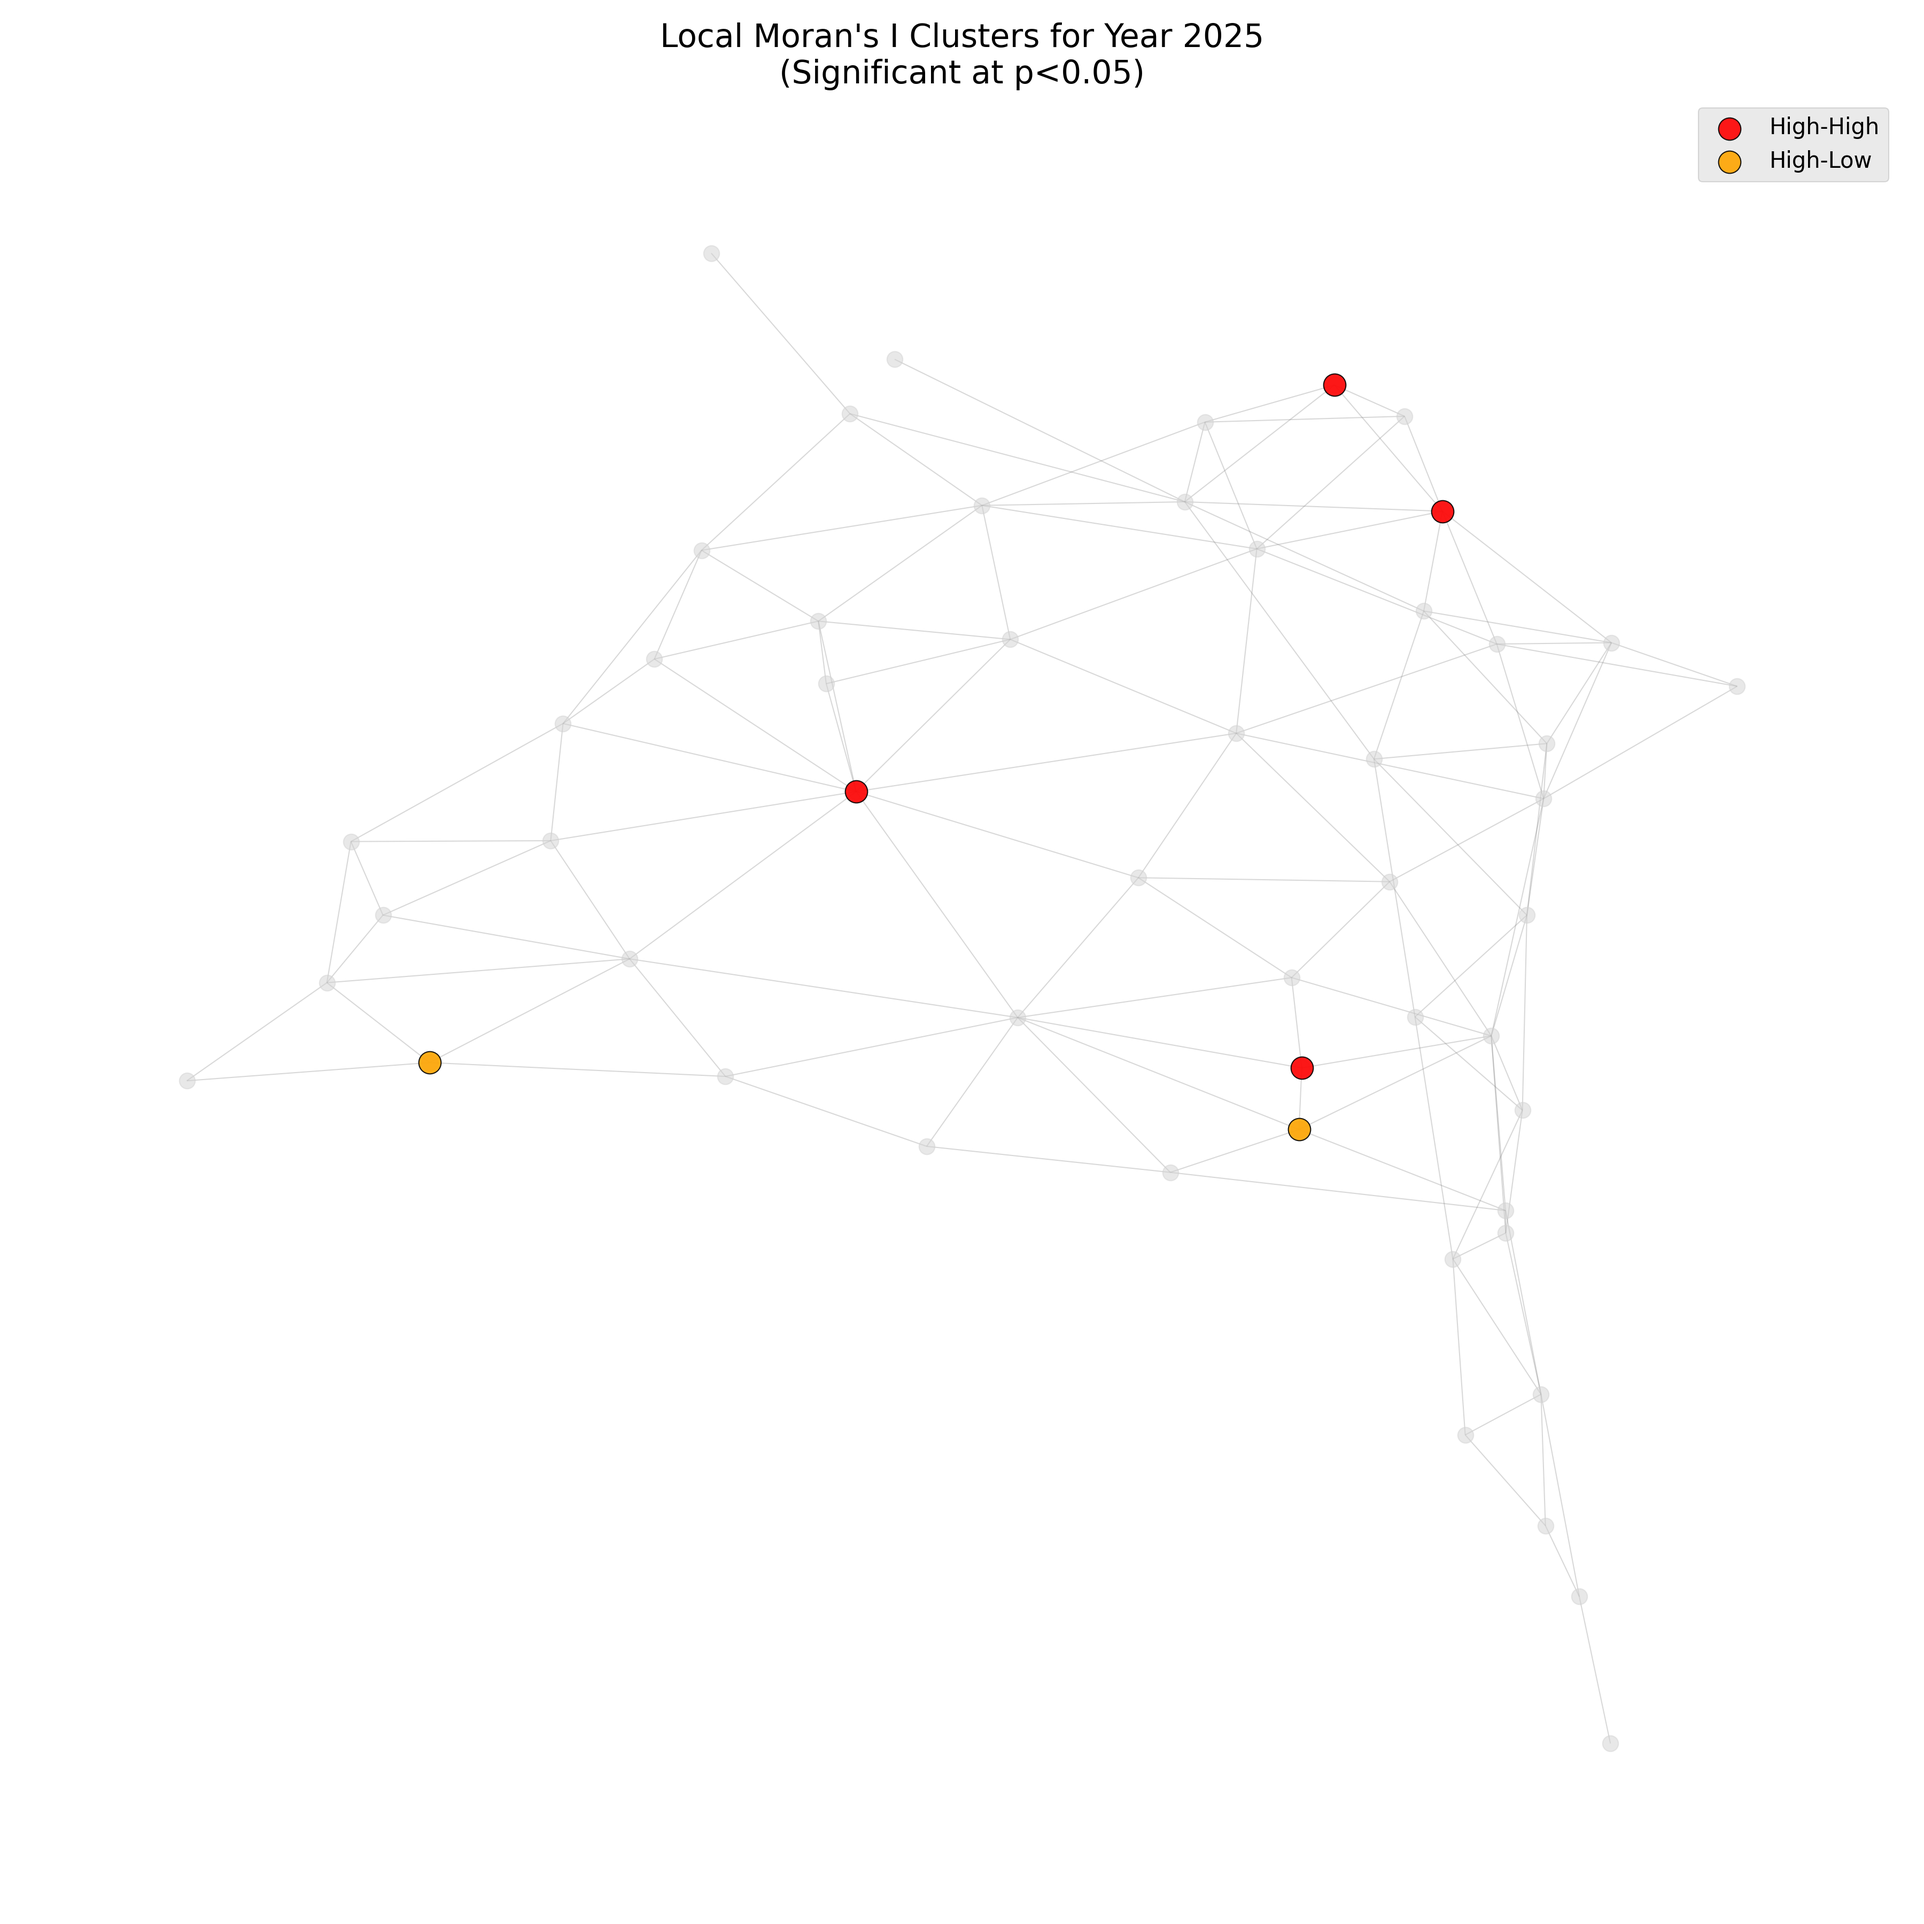
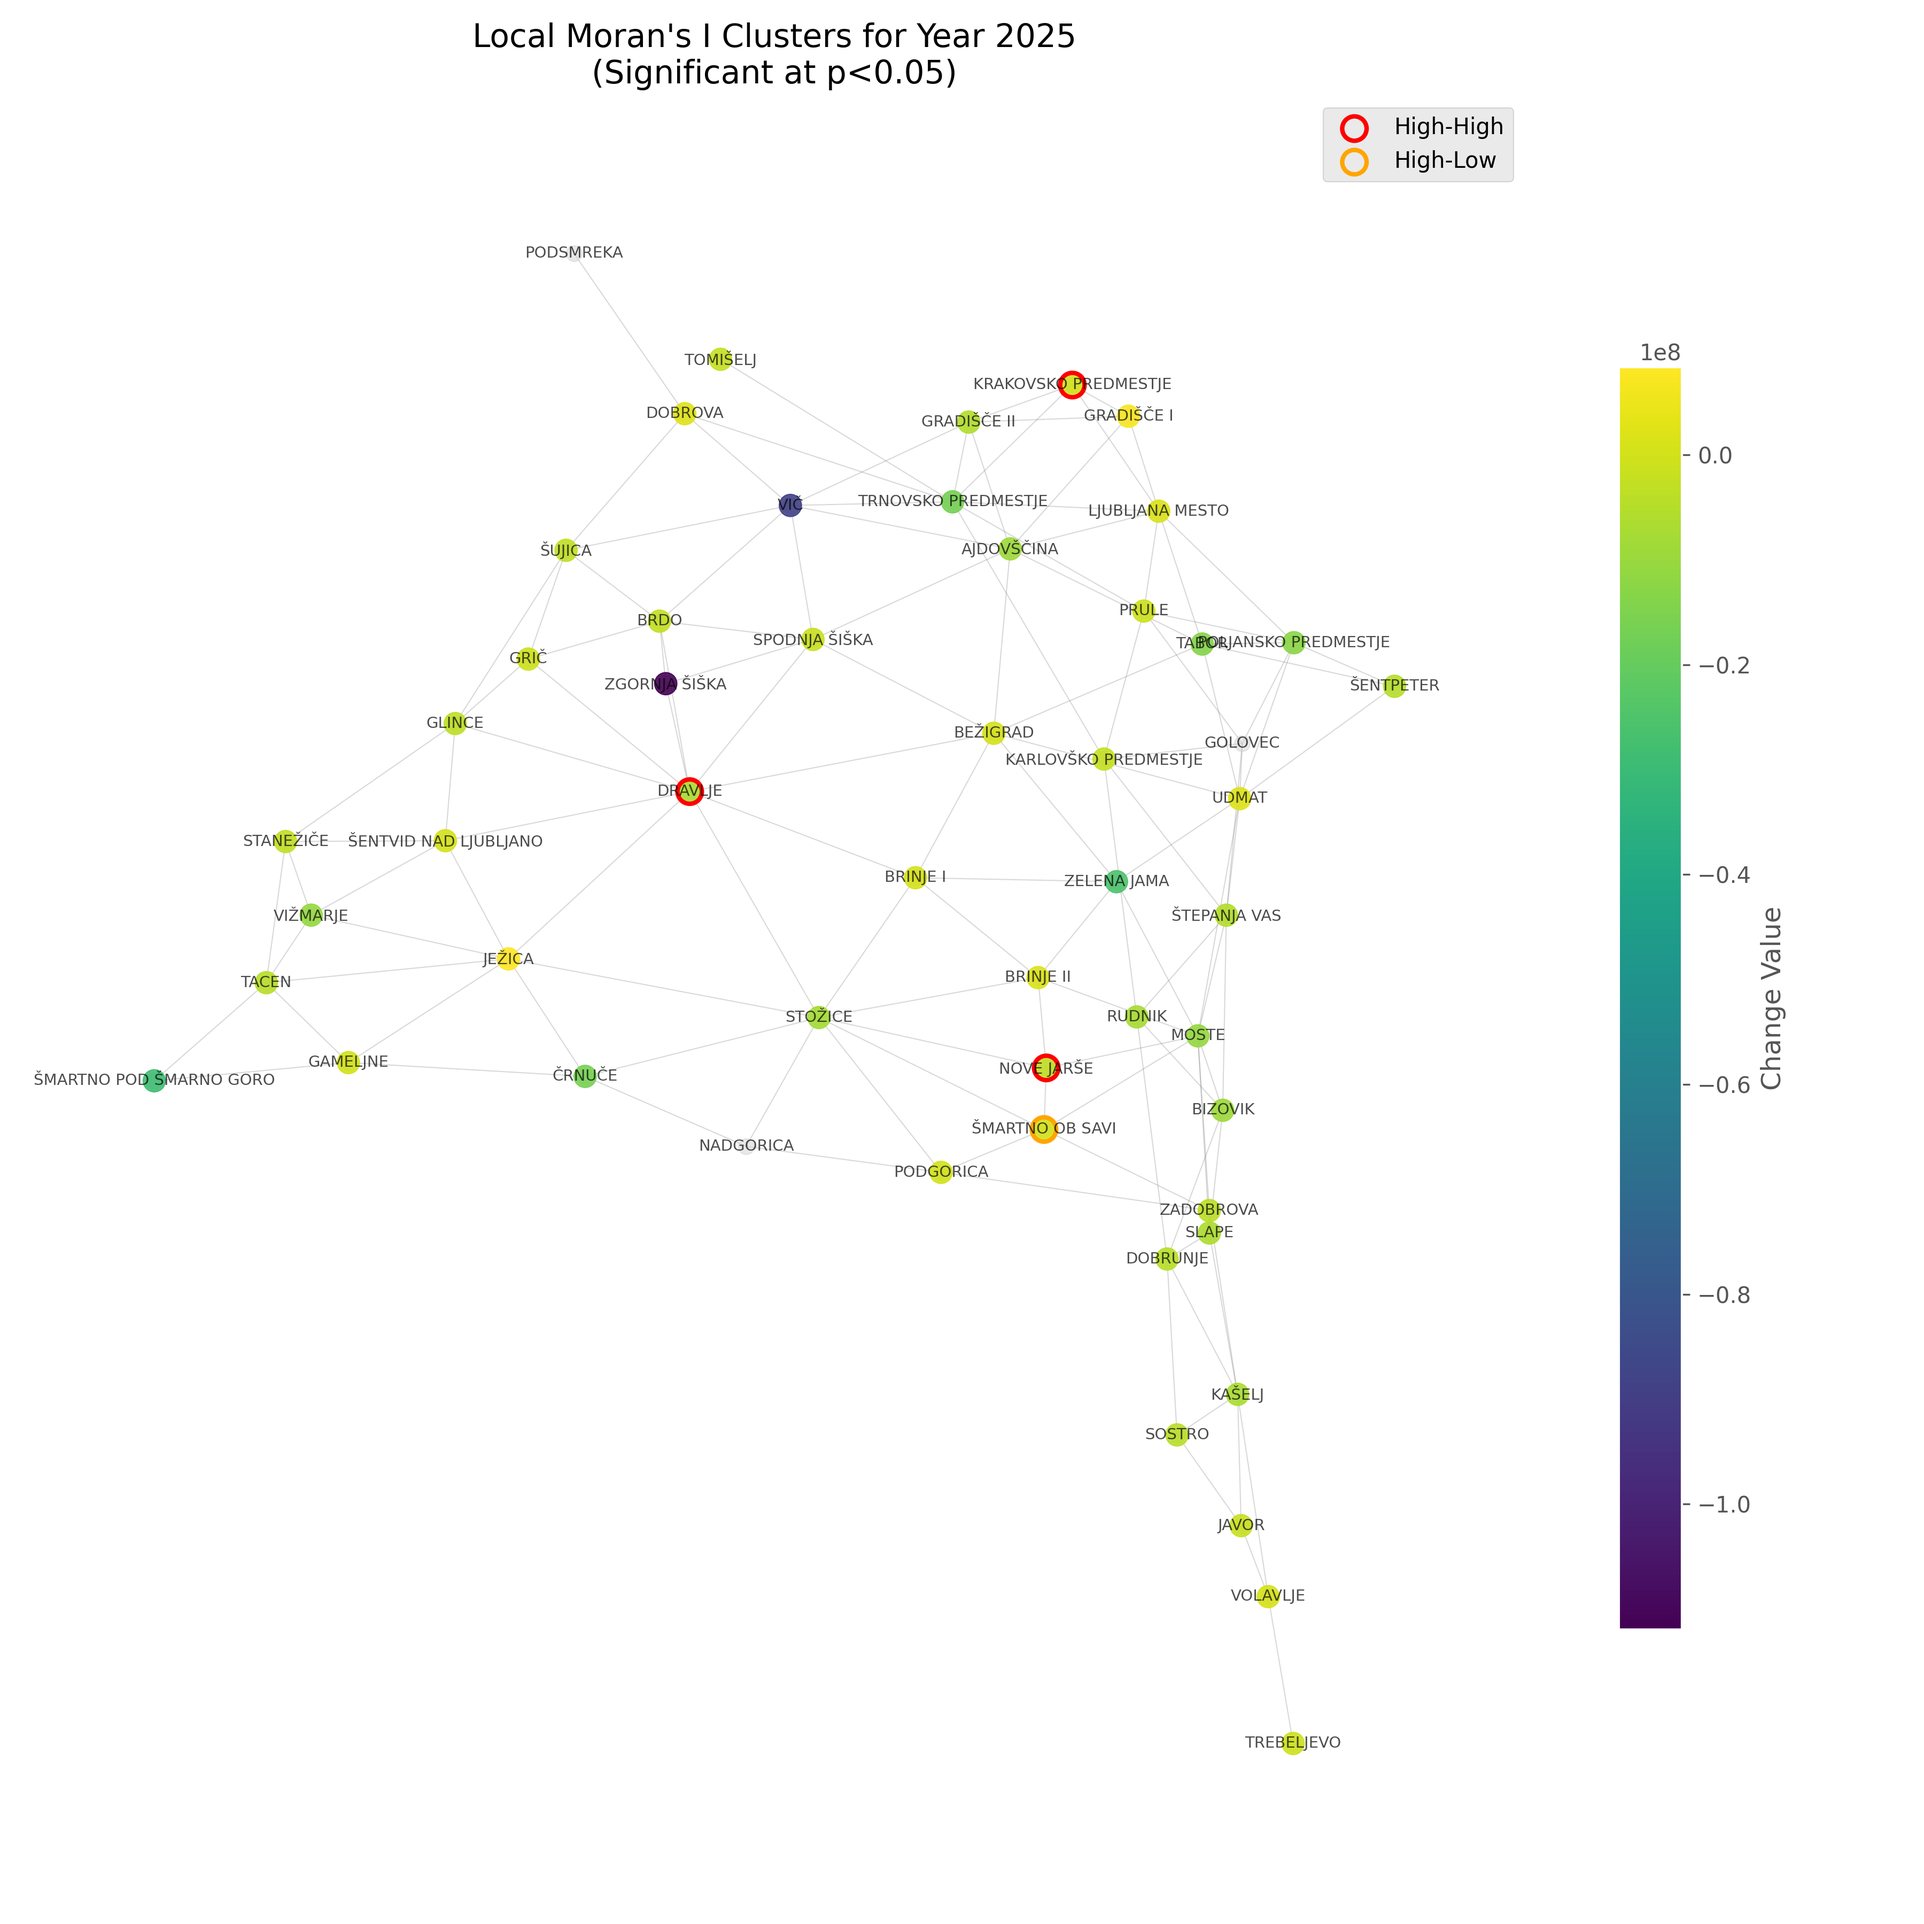
added local global morans'i

diff --git a/network_analysis.py b/network_analysis.py
@@ -206,7 +206,7 @@ def main():
     plot_global_morans_i(global_morans, significance_level=0.05)
 
     local_morans = local_morans_i(G, changes)
-    plot_local_morans_i(local_morans, 2021, G, changes, significance_level=0.05)
+    plot_local_morans_i(local_morans, 2025, G, changes, significance_level=0.05)
 
 if __name__ == "__main__":
     main()
